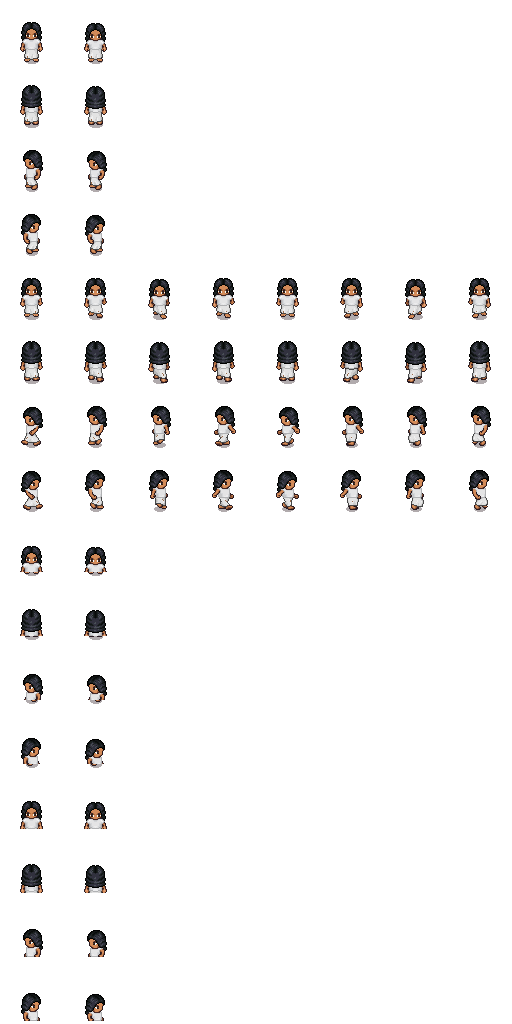
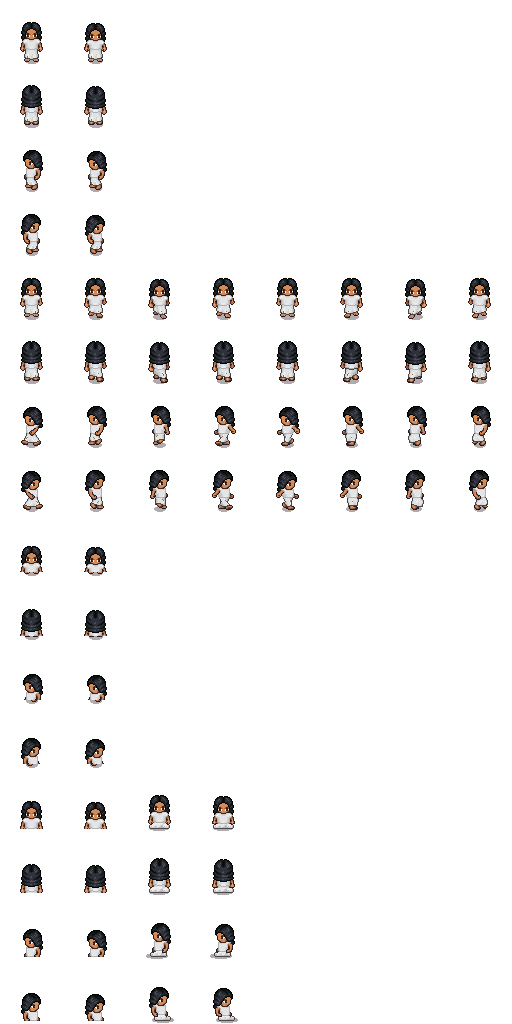
Drawings and credits up to date (20 Nov 2026): Zechariah, the remade Plagues, the copies made for the store apps (The Stars, The Blessings), the falling acacias, Tubal-cain's new arm and the hearth flames
Claude-Session: https://claude.ai/code/session_01NYaiWjz2SkyvwvdseRpBQS

diff --git a/credits/the-plagues.md b/credits/the-plagues.md
@@ -15,10 +15,10 @@ reuse them under the same terms.
 
 | Our file | Made from | Modified by us |
 |---|---|---|
-| `urgiile_sol_sala.png`, `urgiile_sol_caramidaria.png`, `urgiile_sol_rau.png`, `urgiile_sol_gosen.png`, `urgiile_sol_case.png` (the ground of the five maps) | [LPC] Terrains (`terrain-v7.png`): the sand, the trodden earth, the roads, the grass, the dry grass, the water, the stone, the ploughed field; the tufts, the flowers and the pebbles from `graphics/teren.png` (see `credits/shared.md`); the face of the walls from [LPC] Adobe Town Set | Yes: composed by us into a single image, laid out by corners; the flagstones and the carpet of Pharaoh's hall, its painted wall, the stone steps, the stubble field, the ploughed field, the straw in the stable, the unfired bricks drawn by us |
-| `urgiile_usa_piatra.png`, `urgiile_toiag.png`, `urgiile_balaur.png`, `urgiile_balaur_mic.png`, `urgiile_ud_*.png`, `urgiile_uscat_*.png`, `urgiile_bulgare_*.png`, `urgiile_pat.png`, `urgiile_covata*.png`, `urgiile_cuptor_mare.png`, `urgiile_broasca.png`, `urgiile_iesle.png`, `urgiile_gard_*.png`, `urgiile_trestie.png`, `urgiile_brat_trestie.png`, `urgiile_gramada_trestie.png`, `urgiile_masa*.png`, `urgiile_paine.png`, `urgiile_lapte.png`, `urgiile_miere.png`, `urgiile_smochine.png`, `urgiile_peste.png`, `urgiile_panza.png`, `urgiile_capac.png`, `urgiile_rogojina.png`, `urgiile_strachina.png`, `urgiile_frunza.png`, `urgiile_raft*.png`, `urgiile_lacusta.png`, `urgiile_perdea*.png`, `urgiile_opait.png`, `urgiile_tablita.png`, `urgiile_mana.png`, `urgiile_grajd.png`, `urgiile_in*.png`, `urgiile_orz*.png`, `urgiile_grau.png`, `urgiile_vas_apa.png`, `urgiile_vas_rosu.png`, `urgiile_cana_argint.png`, `urgiile_vas_aur.png`, `urgiile_haina.png` | Nothing from the packs | Drawn by us (from code), in the LPC manner: dark outline, light from the top left |
+| `urgiile_sol_sala.png`, `urgiile_sol_caramidaria.png`, `urgiile_sol_mal.png`, `urgiile_sol_case.png` (the ground of the four maps; for the riverbank: below, the old ground of the river, above it the land of the Egyptians and Goshen, composed from pieces of the old grounds, `unelte/lpc/urgiile_sol_nou.py`) | [LPC] Terrains (`terrain-v7.png`): the sand, the trodden earth, the roads, the grass, the dry grass, the water, the stone, the ploughed field; the tufts, the flowers and the pebbles from `graphics/teren.png` (see `credits/shared.md`); the face of the walls from [LPC] Adobe Town Set | Yes: composed by us into a single image, laid out by corners; the flagstones and the carpet of Pharaoh's hall, its painted wall, the stone steps, the stubble field, the ploughed field, the straw in the stable, the unfired bricks drawn by us |
+| `urgiile_usa_piatra.png`, `urgiile_toiag.png`, `urgiile_ud_*.png`, `urgiile_bulgare_*.png`, `urgiile_pat.png`, `urgiile_covata*.png`, `urgiile_cuptor_mare.png`, `urgiile_broasca.png`, `urgiile_iesle.png`, `urgiile_gard_*.png`, `urgiile_gramada_trestie.png`, `urgiile_masa*.png`, `urgiile_paine.png`, `urgiile_smochine.png`, `urgiile_rogojina.png`, `urgiile_strachina.png`, `urgiile_raft.png`, `urgiile_lacusta.png`, `urgiile_perdea*.png`, `urgiile_opait.png`, `urgiile_mana.png`, `urgiile_grajd.png`, `urgiile_in*.png`, `urgiile_orz*.png`, `urgiile_grau.png`, `urgiile_vas_apa.png`, `urgiile_vas_rosu.png`, `urgiile_cana_argint.png`, `urgiile_vas_aur.png`, `urgiile_haina.png`; from the remake from scratch (15 Nov 2026): `urgiile_trestie_vant.png`, `urgiile_trestie_cade.png`, `urgiile_snop.png`, `urgiile_snop_brat.png` (the sickle, `unelte/lpc/urgiile_secera.gd`), `urgiile_paie_snop.png`, `urgiile_caramida.png`, `urgiile_cos.png`, `urgiile_legatura.png`, `urgiile_lavita.png` (`unelte/lpc/urgiile_noi.py`) | Nothing from the packs | Drawn by us (from code), in the LPC manner: dark outline, light from the top left |
 | `urgiile_usa_piatra_a.png`, `urgiile_usa_piatra_b.png`, `urgiile_usa_piatra_c.png` (the variants of the stone doors in Pharaoh's hall: sandstone with a cornice, dark granite, limestone with the winged sun disc) | Nothing from the packs | Drawn by us (from code, `unelte/lpc/palat_variante.gd`) on 6 Nov 2026, in the LPC manner: dark outline, light from the top left |
-| `urgiile_baiat.png`, `urgiile_tata.png`, `urgiile_mama.png`, `urgiile_vecina.png`, `urgiile_vecin.png`, `urgiile_lucrator_*.png`, `urgiile_batran.png`, `urgiile_vrajitor_*.png` | Universal LPC Spritesheet Character Generator: the layers in the table below (walking in four directions) | Yes: recoloured with the generator's palettes (skin, hair, clothes, the gold of the coin necklace), the white robe recoloured, the stone of the staff made into a wooden knot, the eyes made brown, the "breathing" frame, the shadow |
+| `urgiile_baiat.png`, `urgiile_tata.png`, `urgiile_mama.png`, `urgiile_vecina.png`, `urgiile_vecin.png`, `urgiile_lucrator_*.png`, `urgiile_batran.png` | Universal LPC Spritesheet Character Generator: the layers in the table below (walking in four directions) | Yes: recoloured with the generator's palettes (skin, hair, clothes, the gold of the coin necklace), the white robe recoloured, the eyes made brown, the "breathing" frame, the shadow; `urgiile_baiat_62.png` is the same boy, made smaller by us (`unelte/sprite_mic.py`) for the meal at Shiloh (Samuel) |
 
 ## The packs
 
@@ -41,9 +41,9 @@ from the generator's CREDITS.csv; the colour palettes are the generator's).
 |---|---|---|---|---|
 | `beards/beard/trimmed/walk.png` | tata | ElizaWy | OGA-BY 3.0 | https://github.com/ElizaWy/LPC/tree/main/Characters/Hair, https://opengameart.org/content/lpc-expanded-sit-run-jump-more |
 | `body/bodies/female/walk.png` | mama, vecina | Benjamin K. Smith (BenCreating), bluecarrot16, TheraHedwig, Evert, MuffinElZangano, Durrani, Pierre Vigier (pvigier), ElizaWy, Matthew Krohn (makrohn), Johannes Sjölund (wulax), Stephen Challener (Redshrike) | OGA-BY 3.0, CC-BY-SA 3.0, GPL 3.0 | https://opengameart.org/content/liberated-pixel-cup-lpc-base-assets-sprites-map-tiles, https://opengameart.org/content/lpc-medieval-fantasy-character-sprites, https://opengameart.org/content/lpc-ladies |
-| `body/bodies/male/walk.png` | batran, lucrator_1, lucrator_2, lucrator_3, tata, vecin, vrajitor_1, vrajitor_2 | bluecarrot16, JaidynReiman, Benjamin K. Smith (BenCreating), Evert, Eliza Wyatt (ElizaWy), TheraHedwig, MuffinElZangano, Durrani, Johannes Sjölund (wulax), Stephen Challener (Redshrike) | OGA-BY 3.0, CC-BY-SA 3.0, GPL 3.0 | https://opengameart.org/content/liberated-pixel-cup-lpc-base-assets-sprites-map-tiles, https://opengameart.org/content/lpc-medieval-fantasy-character-sprites, https://opengameart.org/content/lpc-male-jumping-animation-by-durrani |
+| `body/bodies/male/walk.png` | batran, lucrator_1, lucrator_2, lucrator_3, tata, vecin | bluecarrot16, JaidynReiman, Benjamin K. Smith (BenCreating), Evert, Eliza Wyatt (ElizaWy), TheraHedwig, MuffinElZangano, Durrani, Johannes Sjölund (wulax), Stephen Challener (Redshrike) | OGA-BY 3.0, CC-BY-SA 3.0, GPL 3.0 | https://opengameart.org/content/liberated-pixel-cup-lpc-base-assets-sprites-map-tiles, https://opengameart.org/content/lpc-medieval-fantasy-character-sprites, https://opengameart.org/content/lpc-male-jumping-animation-by-durrani |
 | `body/bodies/teen/walk.png` | baiat | bluecarrot16, Evert, TheraHedwig, Benjamin K. Smith (BenCreating), MuffinElZangano, Durrani, Pierre Vigier (pvigier), Eliza Wyatt (ElizaWy), Matthew Krohn (makrohn), Johannes Sjölund (wulax), Stephen Challener (Redshrike) | OGA-BY 3.0, CC-BY-SA 3.0, GPL 3.0 | https://opengameart.org/content/liberated-pixel-cup-lpc-base-assets-sprites-map-tiles, https://opengameart.org/content/lpc-medieval-fantasy-character-sprites, https://opengameart.org/content/lpc-ladies |
-| `feet/sandals/male/walk.png` | batran, vecin, vrajitor_1, vrajitor_2 | Nila122, JaidynReiman, Matthew Krohn (makrohn), Johannes Sjölund (wulax) | OGA-BY 3.0, CC-BY-SA 3.0, GPL 2.0, GPL 3.0 | https://opengameart.org/content/lpc-roman-armor, http://opengameart.org/content/lpc-clothing-updates, https://opengameart.org/content/lpc-expanded-socks-shoes |
+| `feet/sandals/male/walk.png` | batran, vecin | Nila122, JaidynReiman, Matthew Krohn (makrohn), Johannes Sjölund (wulax) | OGA-BY 3.0, CC-BY-SA 3.0, GPL 2.0, GPL 3.0 | https://opengameart.org/content/lpc-roman-armor, http://opengameart.org/content/lpc-clothing-updates, https://opengameart.org/content/lpc-expanded-socks-shoes |
 | `feet/sandals/thin/walk.png` | mama, vecina | Nila122, JaidynReiman, Matthew Krohn (makrohn), Johannes Sjölund (wulax) | OGA-BY 3.0, CC-BY-SA 3.0, GPL 2.0, GPL 3.0 | https://opengameart.org/content/lpc-roman-armor, http://opengameart.org/content/lpc-clothing-updates, https://opengameart.org/content/lpc-expanded-socks-shoes |
 | `hair/balding/adult/walk.png` | batran | ElizaWy | OGA-BY 3.0 | https://opengameart.org/content/lpc-hair |
 | `hair/bedhead/adult/walk.png` | baiat | JaidynReiman, Manuel Riecke (MrBeast) | CC-BY-SA 3.0, GPL 3.0 | https://opengameart.org/content/liberated-pixel-cup-lpc-base-assets-sprites-map-tiles, https://opengameart.org/content/lpc-expanded-hair |
@@ -56,17 +56,15 @@ from the generator's CREDITS.csv; the colour palettes are the generator's).
 | `hat/headband/tied/adult/walk.png` | baiat, lucrator_1 | Nila122 | OGA-BY 3.0, CC-BY-SA 3.0, GPL 3.0 | https://opengameart.org/content/lpc-lizard-headgear, https://opengameart.org/content/lpc-expanded-hats-facial-helmets |
 | `head/heads/human/female/walk.png` | mama, vecina | bluecarrot16, Benjamin K. Smith (BenCreating), Stephen Challener (Redshrike) | OGA-BY 3.0, CC-BY-SA 3.0, GPL 3.0 | https://opengameart.org/content/, https://opengameart.org/content/lpc-character-bases |
 | `head/heads/human/female_small/walk.png` | baiat | ElizaWy, Stephen Challener (Redshrike) | OGA-BY 3.0, CC-BY |  |
-| `head/heads/human/male/walk.png` | lucrator_1, lucrator_2, lucrator_3, tata, vecin, vrajitor_1 | bluecarrot16, Benjamin K. Smith (BenCreating), Stephen Challener (Redshrike) | OGA-BY 3.0, CC-BY-SA 3.0, GPL 3.0 | https://opengameart.org/content/liberated-pixel-cup-lpc-base-assets-sprites-map-tiles, https://opengameart.org/content/lpc-character-bases |
-| `head/heads/human/male_elderly/walk.png` | batran, vrajitor_2 | Benjamin K. Smith (BenCreating), Eliza Wyatt (ElizaWy), Stephen Challener (Redshrike) | OGA-BY 3.0, CC-BY 3.0 | https://opengameart.org/content/liberated-pixel-cup-lpc-base-assets-sprites-map-tiles, https://opengameart.org/content/lpc-revised-elders, https://opengameart.org/content/lpc-character-bases |
-| `legs/skirts/plain/male/walk.png` | batran, lucrator_1, lucrator_2, lucrator_3, tata, vecin, vrajitor_1, vrajitor_2 | bluecarrot16, Pierre Vigier (pvigier), Johannes Sjölund (wulax), Ahmad3366, JaidynReiman | OGA-BY 3.0, CC-BY-SA 3.0, GPL 3.0 | https://opengameart.org/content/lpc-medieval-fantasy-character-sprites |
+| `head/heads/human/male/walk.png` | lucrator_1, lucrator_2, lucrator_3, tata, vecin | bluecarrot16, Benjamin K. Smith (BenCreating), Stephen Challener (Redshrike) | OGA-BY 3.0, CC-BY-SA 3.0, GPL 3.0 | https://opengameart.org/content/liberated-pixel-cup-lpc-base-assets-sprites-map-tiles, https://opengameart.org/content/lpc-character-bases |
+| `head/heads/human/male_elderly/walk.png` | batran | Benjamin K. Smith (BenCreating), Eliza Wyatt (ElizaWy), Stephen Challener (Redshrike) | OGA-BY 3.0, CC-BY 3.0 | https://opengameart.org/content/liberated-pixel-cup-lpc-base-assets-sprites-map-tiles, https://opengameart.org/content/lpc-revised-elders, https://opengameart.org/content/lpc-character-bases |
+| `legs/skirts/plain/male/walk.png` | batran, lucrator_1, lucrator_2, lucrator_3, tata, vecin | bluecarrot16, Pierre Vigier (pvigier), Johannes Sjölund (wulax), Ahmad3366, JaidynReiman | OGA-BY 3.0, CC-BY-SA 3.0, GPL 3.0 | https://opengameart.org/content/lpc-medieval-fantasy-character-sprites |
 | `legs/skirts/plain/thin/walk.png` | baiat | bluecarrot16, Pierre Vigier (pvigier), Johannes Sjölund (wulax), Ahmad3366, JaidynReiman | OGA-BY 3.0, CC-BY-SA 3.0, GPL 3.0 | https://opengameart.org/content/lpc-medieval-fantasy-character-sprites |
 | `neck/necklace/beaded_large/female/walk.png` | vecina | bluecarrot16 | CC0 | https://opengameart.org/content/lpc-jewelry |
 | `neck/necklace/beaded_large/male/walk.png` | vecin | bluecarrot16 | CC0 | https://opengameart.org/content/lpc-jewelry |
-| `torso/clothes/longsleeve/longsleeve/male/walk.png` | batran, vrajitor_1, vrajitor_2 | JaidynReiman, Johannes Sjölund (wulax) | OGA-BY 3.0, CC-BY-SA 3.0, GPL 3.0 | https://opengameart.org/content/lpc-medieval-fantasy-character-sprites, http://opengameart.org/content/lpc-clothing-updates, https://opengameart.org/content/lpc-revised-character-basics |
+| `torso/clothes/longsleeve/longsleeve/male/walk.png` | batran | JaidynReiman, Johannes Sjölund (wulax) | OGA-BY 3.0, CC-BY-SA 3.0, GPL 3.0 | https://opengameart.org/content/lpc-medieval-fantasy-character-sprites, http://opengameart.org/content/lpc-clothing-updates, https://opengameart.org/content/lpc-revised-character-basics |
 | `torso/clothes/robe/female/walk/white.png` | mama, vecina | Luke Mehl | CC-BY-SA 3.0, GPL 3.0 | https://opengameart.org/content/female-mage-clothing-set |
 | `torso/clothes/shortsleeve/shortsleeve/male/walk.png` | vecin | bluecarrot16, ElizaWy, JaidynReiman, Stephen Challener (Redshrike) | OGA-BY 3.0, CC-BY-SA 3.0, GPL 3.0 | https://opengameart.org/content/liberated-pixel-cup-lpc-base-assets-sprites-map-tiles, http://opengameart.org/content/lpc-revised-character-basics, http://opengameart.org/content/lpc-clothing-updates |
 | `torso/clothes/shortsleeve/shortsleeve/teen/walk.png` | baiat | Nyom, bluecarrot16, ElizaWy, JaidynReiman, Stephen Challener (Redshrike) | OGA-BY 3.0, CC-BY-SA 3.0, GPL 3.0 | https://opengameart.org/content/liberated-pixel-cup-lpc-base-assets-sprites-map-tiles, https://opengameart.org/content/lpc-7-womens-shirts, http://opengameart.org/content/lpc-revised-character-basics |
 | `torso/clothes/sleeveless/sleeveless/male/walk/white.png` | lucrator_3, tata | bluecarrot16, Matthew Krohn (makrohn), JaidynReiman, Marcel van de Steeg (MadMarcel), Nila122, Johannes Sjölund (wulax), Stephen Challener (Redshrike) | OGA-BY 3.0, CC-BY-SA 3.0, GPL 3.0 | https://opengameart.org/content/lpc-female-orcogregoblintroll-base-walkcycle, https://opengameart.org/content/lpc-curly-hair-elven-ears-white-cape-with-blue-trim-and-more, https://opengameart.org/content/more-lpc-clothes-and-hair |
-| `torso/waist/sash/male/walk/tan.png` | batran, lucrator_2, tata, vecin, vrajitor_1, vrajitor_2 | bluecarrot16, Nila122 | OGA-BY 3.0, GPL 2.0, GPL 3.0, CC-BY-SA 3.0 | https://opengameart.org/content/more-lpc-clothes-and-hair, https://opengameart.org/content/lpc-pirates |
-| `weapon/magic/simple/background/walk/simple.png` | vrajitor_1, vrajitor_2 | bluecarrot16, Dr. Jamgo | CC0 | https://opengameart.org/content/lpc-simple-staff |
-| `weapon/magic/simple/foreground/walk/simple.png` | vrajitor_1, vrajitor_2 | bluecarrot16, Dr. Jamgo | CC0 | https://opengameart.org/content/lpc-simple-staff |
+| `torso/waist/sash/male/walk/tan.png` | batran, lucrator_2, tata, vecin | bluecarrot16, Nila122 | OGA-BY 3.0, GPL 2.0, GPL 3.0, CC-BY-SA 3.0 | https://opengameart.org/content/more-lpc-clothes-and-hair, https://opengameart.org/content/lpc-pirates |

diff --git a/credits/the-generations.md b/credits/the-generations.md
@@ -17,17 +17,17 @@ of the people's layers) remain CC-BY-SA as well: anyone may reuse them under the
 | `neamuri_matusalem.png` (young Methuselah, 13 Nov 2026) | `matusalem.png` above | Yes: the hair and beard recoloured dark chestnut (a recolouring done once, in Godot) |
 | `neamuri_bou.png` (the ox at the plough, 13 Nov 2026) | the copy of `granarele_bou.png` from the chapter The Storehouses: LPC bull (`bull_1.png`), the authors and the licence in The Storehouses (`credits/the-storehouses.md`) | Yes: recoloured reddish-brown (in The Storehouses) |
 | `neamuri_copil.png`, `neamuri_copil_2.png` and their sheets at 62% (the children of Seth's household, 13 Nov 2026) | the copies of `peniel_copil_1.png`, `peniel_copil_2.png` (and `_62`) from the chapter Peniel: the LPC generator; the authors of the layers in Peniel (`credits/peniel.md`) | Yes: in Peniel (recoloured, scaled down with `unelte/sprite_mic.py`) |
-| `iabal.png`, `iubal.png`, `tubalcain.png`, `lameh_cain.png` | The LPC generator; Jabal with a hood and a staff, Jubal with a headband, Tubal-cain with a leather apron | Yes: as above; the lyre in Jubal's hands (the "plays" animation) is drawn by us |
+| `iabal.png`, `iubal.png`, `tubalcain.png`, `lameh_cain.png` | The LPC generator; Jabal with a hood and a staff, Jubal with a headband, Tubal-cain with a leather apron | Yes: as above; the lyre in Jubal's hands (the "plays" animation) is drawn by us; for Tubal-cain, two extra frames (row 9, the "strikes" animation: the arm raised, with the fist by the ear, and the arm stretched towards the anvil), with the old arm removed and a new one drawn by us from his shoulder, in the colours of his sleeve and hand (`unelte/lpc/neamuri_tubalcain_bate.py`) |
 | `ada.png`, `sela.png`, `noema.png`, `neamuri_fiica.png`, `neamuri_fiica_2.png` | The LPC generator: female body, head, hair, the women's robe, sandals; one daughter has a headscarf | Yes: recoloured; the robe closed at the neck and lowered to almost the ankles (modest clothing) |
 | `neamuri_capra.png`, `neamuri_capra_neagra.png`, `neamuri_capra_cafenie.png` | [LPC] Goat (`goat.png`) | Yes: rearranged, the pack's shadow replaced with ours; recoloured black and brown |
 | `casa_chirpici_1.png`, `casa_chirpici_3.png` | [LPC] Adobe Building Set (`adobe6.png`): the house with the flat roof | Yes: cut out, green background removed, shadow; the second one is mirrored |
-| `nicovala.png`, `ciocan.png`, `lemne_stiva.png`, `lemne_brat.png` | [LPC] Farming tilesets (`farming_fishing.png`) | Only cut out (shadow added to the anvil and to the armful of wood) |
+| `nicovala.png`, `ciocan.png`, `ciocan_lovit.png`, `ciocan_bate.png`, `ciocan_ridicat.png`, `lemne_stiva.png`, `lemne_brat.png` | [LPC] Farming tilesets (`farming_fishing.png`) | Only cut out (shadow added to the anvil and to the armful of wood; on the hammer, the leftovers of the neighbouring drawing removed, and `ciocan_lovit.png` is the same hammer lying down, pixel for pixel; `ciocan_bate.png` is the hammer lying down with the handle 4 pixels longer and tilted by 15 degrees, RotSprite, with Tubal-cain's fist over the handle, and `ciocan_ridicat.png` is the hammer lying down, turned with its head towards the back and raised by 60 degrees, RotSprite, `unelte/lpc/neamuri_tubalcain_bate.py`) |
 | `gard_*.png` | [LPC] Farming tilesets (`fence.png`) | Yes: the pieces recomposed according to their neighbours (post, rails to the left, right, up, down) |
 | `brazda.png` | [LPC] Farming tilesets (`plowed_soil.png`) | No, only cut out |
 | `ogor_arat.png`, `ogor_arat_lipsa.png` (Lamech's ploughed field, whole and with one tile missing at a time) | [LPC] Farming tilesets (`plowed_soil.png`), the tile from `brazda.png` | Yes: the furrows laid side by side over the whole field, with broken ends, in a patch of earth drawn by us, with an irregular edge (`unelte/lpc/neamuri_ogor.py`, 28 Oct 2026) |
 | `pom_1.png`, `pom_2.png`, `pom_3.png` | [LPC] Trees (`trees-green.png`) | No, only cut out |
 | `pete.png` (the ground patches, the paths, the small bits) | [LPC] Terrains (`terrain-v7.png`): the dark grass, the fresh green grass, the sand, the gravel, the brown earth, on transparent, and two tiles with pebbles; [LPC] Flowers / Plants (`plants.png`): fallen leaves, blades of grass, tiny flowers, bulrushes | Yes: the tiles chosen by corners and rearranged in rows; the gravel redrawn by us on 28 Oct 2026, in the LPC style (`unelte/lpc/piatra_seaca.py`), in place of the one from the pack; the pebbles (row 5) redrawn by us on 28 Oct 2026, in the style of the walls in The Brothers (`unelte/lpc/pietre_rotunde.py`) |
-| `candela.png`, `flacara_1..3.png`, `coliba_1.png`, `coliba_2.png`, `zid_*.png`, `turn_*.png`, `temelie.png`, `caramizi.png`, `jertfelnic_enos.png`, `pom_0.png`, `cort_negru_1.png`, `cort_negru_2.png`, `cuptor.png`, `arama.png`, `instrumente.png`, `leagan_1..3.png`, `groapa_1..3.png`, `fantana.png`, `vatra.png`, `vatra_lemne.png`, `ulcior.png`, `plug.png`, `piatra_sezut.png`, `bolovan_1..3.png` | Nothing from the packs | Drawn by us, in the LPC style (dark outline, stepped shading, light from the top left); the walls have the adobe colours of [LPC] Adobe Building Set; the hearth, the well, Enosh's altar, the boulders and the sitting stone redrawn by us on 28 Oct 2026, in the style of the walls in The Brothers (`unelte/lpc/pietre_rotunde.py`) |
+| `candela.png`, `flacara_1..3.png`, `coliba_1.png`, `coliba_2.png`, `zid_*.png`, `turn_*.png`, `temelie.png`, `caramizi.png`, `jertfelnic_enos.png`, `pom_0.png`, `cort_negru_1.png`, `cort_negru_2.png`, `cuptor.png`, `arama.png`, `instrumente.png`, `leagan_1..3.png`, `groapa_1..3.png`, `fantana.png`, `vatra.png`, `vatra_lemne.png`, `vatra_flacara_1..3.png`, `vatra_flacara_mare_1..3.png`, `ulcior.png`, `plug.png`, `piatra_sezut.png`, `bolovan_1..3.png` | Nothing from the packs | Drawn by us, in the LPC style (dark outline, stepped shading, light from the top left); the walls have the adobe colours of [LPC] Adobe Building Set; the hearth, the well, Enosh's altar, the boulders and the sitting stone redrawn by us on 28 Oct 2026, in the style of the walls in The Brothers (`unelte/lpc/pietre_rotunde.py`); the flames of the hearth drawn at their own size on 18 Nov 2026 (`unelte/lpc/neamuri_foc_vatra.gd`), in the colours of the oil lamp's flame |
 
 ## The packs
 

diff --git a/credits/zechariah.md b/credits/zechariah.md
@@ -1,0 +1,43 @@
+# Credits — chapter 62, Zechariah (the "lpc" style)
+
+The images in `graphics/zechariah/` are made by the chapter's tool (`unelte/lpc/zaharia_desene.py`) from the drawings of
+other chapters, recoloured (the brighter colours of the New Testament trial: clean clothes, cream-gold stone, blue-violet
+shadows) and drawn further by us, in the LPC manner, and from drawings made by us. The drawings made from code by the
+chapter (`capitole/zaharia*.gd`: the smoke of the altar and of the incense, the haze in the holy room, the sunbeams with
+the specks of dust, the line of the coals, the arrows and the circles of the mini-games) are drawn by us, with nothing
+from the packs.
+
+From other chapters, taken by path (their authors are in their chapter's credits file, and the LPC packs the people are
+made from are listed there, layer by layer):
+
+| Our file | Made from | Modified by us |
+|---|---|---|
+| `zaharia_zaharia.png`, `zaharia_zaharia_casa.png` | Moses with raised arms from The Wilderness (`graphics/the-wilderness/`, `credits/the-wilderness.md`) and Eli from Samuel (`credits/samuel.md`) | Yes: the white priest's robe with a sash, then the robe for home, the white beard, the half-raised arms (the sign of the mute man), drawn by us |
+| `zaharia_elisabeta.png` | Naomi from Ruth (`credits/ruth.md`) | Yes: recoloured, the headscarf drawn by us |
+| `zaharia_maria.png` | Miriam from The Burning Bush (`credits/the-burning-bush.md`) | Yes: the blue robe and the maphorion, drawn by us |
+| `zaharia_preot_1..3.png`, `zaharia_iosif.png` | The elders from The Burning Bush and the young man from The Spies (`credits/the-burning-bush.md`, `credits/the-spies.md`) | Yes: the white linen robes of the priests and Joseph's work clothes, recoloured by us |
+| `zaharia_om_1..16.png` | The people, the girls and the elders from The Burning Bush, the man from Samuel and from The Spies, the kinsman from The Threshing Floor, Jonathan from Saul, the mother and Manoah from Samson (each with its credits file) | Yes: recoloured with the palettes of the LPC generator |
+| `zaharia_copil_1..2.png` | The child Samuel from Samuel (`credits/samuel.md`) | Yes: recoloured |
+| `zaharia_gavriil.png`, `zaharia_gavriil_lumina.png` | The angel and his light from Balaam and Nebo (`credits/balaam-and-nebo.md`) | Yes: a tall man full of light, without wings, the white robe with gold, drawn by us |
+| `zaharia_jertfelnic.png`, `zaharia_spalatoare.png`, `zaharia_masa_paini.png`, `zaharia_altar.png`, `zaharia_sfesnic.png`, `zaharia_stalpi_perdea.png`, `zaharia_rogojina.png` | The furnishings of the tabernacle from The Tabernacle (`credits/the-tabernacle.md`) | Yes: the altar in bronze, the colours brighter |
+| `zaharia_foc_1..3.png`, `zaharia_flacara_1..3.png`, `zaharia_candela.png`, `zaharia_zid_0..15.png`, `zaharia_cedru_0..15.png` | The hearth, the flames, the oil lamp and the walls from The Generations (`credits/the-generations.md`) | Yes: the walls recoloured twice (the cream-gold stone of the courts and the cedar walls with a gold band of the temple) |
+| `zaharia_zidt_*.png` | The dry-stone walls from The Brothers (`graphics/the-brothers/`, the authors in `credits/shared.md`) | Yes: brighter |
+| `zaharia_coloana.png`, `zaharia_casa_*.png` (one of five) | The column and the house from The Storehouses (`credits/the-storehouses.md`) | Yes: the cream-gold stone; the front of the temple, with the door, the porch and the cornice, put together by us from columns and walls |
+| `zaharia_casa_mare.png`, `zaharia_poarta.png`, `zaharia_casa_*.png` | The houses and the gate from Mamre (`credits/mamre.md`) | Yes: warm colours |
+| `zaharia_casa_mica.png`, `zaharia_ulcior.png` | The house and the jar from The Call (`credits/the-call.md`) | Yes: warm colours |
+| `zaharia_casa_joasa.png` | The house from Peniel (`credits/peniel.md`) | Yes: warm colours |
+| `zaharia_treapta.png`, `zaharia_casa_*.png` (one of five) | The step and the house from The Well (`credits/the-well.md`) | Yes: warm colours |
+| `zaharia_fantana.png` | The well from Jacob (`credits/jacob.md`) | Yes: brighter |
+| `zaharia_vie.png`, `zaharia_cos.png` | The vine and the basket of figs from Joseph (`credits/joseph.md`) | Yes: brighter |
+| `zaharia_maslin.png`, `zaharia_butuc.png`, `zaharia_asin.png` | The olive tree, the stump and the donkey with its pack saddle from Moriah (`credits/moriah.md`) | Yes: brighter |
+| `zaharia_maslin_mic.png` | The small olive tree from The Flood (`credits/the-flood.md`) | Yes: brighter |
+| `zaharia_smochin.png` | The shared fig tree (`credits/shared.md`) | Yes: brighter |
+| `zaharia_teren.png` (the ground: the flagstones, the street, the grass, the gravel) | The ground from Haran (`credits/haran.md`) | Yes: recoloured, the flagstones of the temple court and the stones of the street drawn by us |
+| `zaharia_fatada.png`, `zaharia_perdea.png`, `zaharia_catapeteasma.png`, `zaharia_cadelnita.png`, `zaharia_carbune.png`, `zaharia_tablita_mica.png`, `zaharia_prunc.png`, `zaharia_fum.png`, `zaharia_smochine_uscat.png`, `zaharia_scara.png`, `zaharia_rufe.png`, `zaharia_flori.png`, `zaharia_fluture.png`, `zaharia_randunica.png`, `zaharia_jug.png`, `zaharia_masa.png`, `zaharia_perete.png`, `zaharia_fereastra.png` | Nothing from the packs (the front from the columns and walls above; the stone table, the whitewashed walls and the window of Mary's room, from code) | Drawn by us, in the LPC manner: dark outline, 3–4 steps of colour, light from the top left |
+
+The doves on the walls are the ones from The Garden (`credits/the-garden.md`), and the hidden lamb is the shared sheep, as in
+the other chapters.
+
+**What the licences require:** the names of the authors in the credits file files above and the links to their pages
+appear on the Credits page. Images made from CC-BY-SA material (the people) remain CC-BY-SA 3.0: anyone may reuse them
+under the same conditions.

diff --git a/credits/joseph.md b/credits/joseph.md
@@ -5,7 +5,7 @@ on OpenGameArt.org, from the layers of the LPC character generator and from draw
 (dark outline, stepped shading, light from the top left).
 
 **What the licences require:** the names of the authors below and the links to their pages must appear on the
-Credits page. Images made from CC-BY-SA material (the ground, the people, the camel, the cows, the bird, the horse) remain CC-BY-SA 3.0:
+Credits page. Images made from CC-BY-SA material (the ground, the people, the cows, the bird, the horse) remain CC-BY-SA 3.0:
 anyone may reuse them under the same conditions.
 
 ## Our files and their sources
@@ -16,7 +16,7 @@ anyone may reuse them under the same conditions.
 | `iosif_ziduri.png` (the adobe walls, their shadow, Pharaoh's red carpet) | Nothing from the packs | Drawn by us (in code) |
 | `iosif_pardoseala_a.png`, `iosif_pardoseala_b.png`, `iosif_pardoseala_c.png` (the variants of the floor in Pharaoh's hall: polished limestone flagstones, a chessboard of limestone and sandstone, alabaster) | Nothing from the packs | Drawn by us (in code, `unelte/lpc/palat_variante.gd`) on 6 Nov 2026, in the LPC style |
 | `iosif_haina.png`, `iosif_rob.png`, `iosif_tuns.png`, `iosif_egipt.png`, `iosif_iacov.png`, the ten brothers, `iosif_omul.png`, the people of Shechem, the Ishmaelite merchants, `iosif_putifar.png`, the servants, the jailer, the guard, the cupbearer, the baker, the prisoners, `iosif_faraon.png`, the magician, the official, the Egyptians on the road | Universal LPC Spritesheet Character Generator: the layers in the table below (walking in four directions) | Yes: recoloured (skin, hair, clothes; Joseph's robe in red, yellow, blue and green stripes; Pharaoh's headcloth in gold and blue stripes), the gold necklace drawn by us, the eyes made brown, the "breathing" frame, the kneeling man, the shadow |
-| `iosif_camila.png` | LPC style farm animals (`llama_walk_0.png`) | Yes: recoloured in the colour of a camel, the hump and the saddlebags with goods drawn by us, shadow |
+| `iosif_camila.png` (the camels of the Ishmaelites, since 16 Nov 2026) | Nothing from the packs: the camel from The Well (`fantana_camila_1.png`), copied | Drawn by us (`unelte/lpc/fantana_camila.py`); here only the rows with standing and walking. Until 16 Nov 2026 it was the llama from LPC style farm animals, with the hump and the saddlebags drawn by us |
 | `iosif_vis_vaca_grasa.png`, `iosif_vis_vaca_slaba.png` | LPC style farm animals (`cow_walk.png`) | Yes: recoloured (red with white; grey); the thin one with a tucked-in belly and the ribs showing |
 | `iosif_vis_pasare.png` | [LPC] Birds (`bird_3_sparrow.png`) | No, only rearranged |
 | `iosif_cal.png` | [LPC] Horses (`horse-white_0.png`) | Yes: the walk to the right, cut out, shadow |
@@ -43,7 +43,7 @@ The sounds (`sunete/iosif/`) are synthesised by us (`unelte/sunete_iosif.py`), w
 - `mountains.png`: Lanea Zimmerman (Sharm). Licence: CC-BY-SA 3.0 / GPL 3.0 (Sharm's works are also OGA-BY 3.0).
 - https://opengameart.org/content/liberated-pixel-cup-lpc-base-assets-sprites-map-tiles
 
-### LPC style farm animals (the camel, from the llama; the cows of the dream)
+### LPC style farm animals (the cows of the dream)
 - Author: Daniel Eddeland (daneeklu), commissioned by tebruno99. Licence: CC-BY 3.0 / GPL 2.0.
 - https://opengameart.org/content/lpc-style-farm-animals
 

diff --git a/credits/the-blessings.md b/credits/the-blessings.md
@@ -9,7 +9,9 @@ The inside of Israel's tent, from the scene through Joseph's eyes, Israel's hand
 in code, also by us (`capitole/binecuvantarile_patul.gd`); the sons seen from behind and Israel sitting are made in the game
 from their sheets, which belong to the chapters Joseph and The Storehouses.
 
-The rest of the drawings belong to other chapters, used as they are; their authors are listed in the credits of those chapters:
+The rest of the drawings belong to other chapters, used as they are; their authors are listed in the credits of those chapters. The
+ones taken from chapters that are not yet in the store apps (the fire, the smoke, the reed mat) are copied unchanged into
+`graphics/the-blessings/` (18 Nov 2026), so that the app does not have to carry the whole packs of those chapters for them:
 
 | What is seen in the chapter | Whose drawing it is | The credits |
 |---|---|---|
@@ -17,9 +19,9 @@ The rest of the drawings belong to other chapters, used as they are; their autho
 | The palm trees, the bushes, the great tent | the prologue, Haran (`graphics/haran/`) | `credits/haran.md` |
 | The rocks and the boulders on the road to Mamre | Moriah (`graphics/moriah/`) | `credits/moriah.md` |
 | The altar that grows, the oak at Mamre, the folded tent | The Call (`graphics/the-call/`) | `credits/the-call.md` |
-| The fire of the sacrifice | Balaam and Nebo (`graphics/balaam-and-nebo/`) | `credits/balaam-and-nebo.md` |
-| The smoke of the sacrifice | The Tabernacle (`graphics/the-tabernacle/`) | `credits/the-tabernacle.md` |
-| The reed mat by the tent | The Plagues (`graphics/the-plagues/`) | `credits/the-plagues.md` |
+| The fire of the sacrifice (`graphics/the-blessings/binecuvantarile_foc_0.png`, `_foc_1.png`): the unchanged copies of `valaam_foc_0.png`, `valaam_foc_1.png` | Balaam and Nebo (`graphics/balaam-and-nebo/`) | `credits/balaam-and-nebo.md` |
+| The smoke of the sacrifice (`graphics/the-blessings/binecuvantarile_fum_1.png` … `_fum_3.png`): the unchanged copies of `cortul_fum_1.png` … `cortul_fum_3.png` | The Tabernacle (`graphics/the-tabernacle/`) | `credits/the-tabernacle.md` |
+| The reed mat by the tent (`graphics/the-blessings/binecuvantarile_rogojina.png`): the unchanged copy of `urgiile_rogojina.png` | The Plagues (`graphics/the-plagues/`) | `credits/the-plagues.md` |
 | Goshen, the sacks of grain, the ox carts, Israel, Joseph, the brothers, the servants and Pharaoh's elders | The Storehouses (`graphics/the-storehouses/`) | `credits/the-storehouses.md` |
 | The ground of Goshen in the hard years (`graphics/the-blessings/binecuvantarile_sol_gosen.png`): the copy of `granarele_sol_gosen.png`, with a tuft of grass moved higher up, from under the road (`unelte/lpc/binecuvantarile_sol_gosen.py`) | The Storehouses: [LPC] Terrains (`terrain-v7.png`), the tufts and flowers from `graphics/teren.png`, the face of the walls from [LPC] Adobe Building Set | `credits/the-storehouses.md` (the same licences; changed by us) |
 | Pharaoh's hall, Pharaoh, Joseph's chariot with the white horse, Ephraim and Manasseh | Joseph (`graphics/joseph/`) | `credits/joseph.md` |

diff --git a/credits/the-basket.md b/credits/the-basket.md
@@ -20,7 +20,7 @@ reuse them under the same conditions.
 | `cosuletul_gaina.png` | LPC style farm animals (`chicken_walk.png`, `chicken_eat.png`) | Yes: scaled down to three quarters, rearranged, shadow |
 | `cosuletul_pasare.png` | [LPC] Birds (`bird_1_white.png`): the white dove | Yes: rearranged (on the ground and in flight), shadow |
 | `cosuletul_asin.png` | [LPC] Horses (`horse-gray_0.png`) | Yes: scaled down to three quarters, recoloured as a donkey, the ears lengthened, in profile |
-| `cosuletul_mariam.png`, `cosuletul_mama.png`, `cosuletul_tata.png`, `cosuletul_evreu_*.png`, `cosuletul_supraveghetor_*.png`, `cosuletul_fata_faraon.png`, `cosuletul_roaba_*.png`, `cosuletul_spalatoreasa.png`, `cosuletul_vecina.png`, `cosuletul_vecin.png`, `cosuletul_batran.png`, `cosuletul_pescar_*.png`, `cosuletul_copil_*.png`, `cosuletul_prunc_mare.png`, `cosuletul_moise.png` | Universal LPC Spritesheet Character Generator: the layers in the table below (walking in four directions; for Miriam also crouching and sitting) | Yes: recoloured with the generator's palettes (skin, hair, clothes, the gold of the coin necklace), the white robe recoloured, the stone of the staff turned into a wooden knob, the eyes made brown, the "breathing" frame, the shadow |
+| `cosuletul_mariam.png`, `cosuletul_mama.png`, `cosuletul_tata.png`, `cosuletul_evreu_*.png`, `cosuletul_supraveghetor_*.png`, `cosuletul_fata_faraon.png`, `cosuletul_roaba_*.png`, `cosuletul_spalatoreasa.png`, `cosuletul_vecina.png`, `cosuletul_vecin.png`, `cosuletul_batran.png`, `cosuletul_pescar_*.png`, `cosuletul_copil_*.png`, `cosuletul_prunc_mare.png`, `cosuletul_moise.png` | Universal LPC Spritesheet Character Generator: the layers in the table below (walking in four directions; for Miriam also crouching and sitting) | Yes: recoloured with the generator's palettes (skin, hair, clothes, the gold of the coin necklace), the white robe recoloured, the stone of the staff turned into a wooden knob, the eyes made brown, the "breathing" frame, the shadow; `cosuletul_copil_1_62.png` and `cosuletul_copil_2_50.png` are the same children, made smaller by us (`unelte/sprite_mic.py`) for the meal at Shiloh (Samuel) |
 
 ## The packs
 

diff --git a/credits/the-stars.md b/credits/the-stars.md
@@ -1,7 +1,10 @@
 # Credits — chapter 8 (The Stars)
 
 The drawings in `graphics/the-stars/`. The rest of the chapter's drawings belong to other chapters (the prologue, The Call, The Tower,
-The Generations, Mamre, Joseph), with their authors in the credit files of those chapters.
+The Generations, Mamre, Joseph), with their authors in the credit files of those chapters. The ones taken from chapters that
+are not yet in the store apps (The Burning Bush, The Wilderness, Balaam and Nebo, Samuel) are copied here unchanged (18 Nov 2026),
+under another name, so that the app does not have to carry the whole packs of those chapters for them; their authors remain the
+ones in the credits of the chapter they come from.
 
 ## The files and their sources
 
@@ -9,3 +12,8 @@ The Generations, Mamre, Joseph), with their authors in the credit files of those
 |---|---|---|
 | `stelele_camila.png` (the camel given by Pharaoh, 12:16) | Nothing from the packs: the camel from The Well (`fantana_camila_1.png`), copied | Drawn by us (`unelte/lpc/fantana_camila.py`); here only the rows with standing and walking |
 | `stelele_stalp_fum.png` (the pillar of smoke with fire at the covenant, 15:17; 12 frames) | Nothing from the packs | Drawn by us, from code (`unelte/lpc/stelele_stalp_fum.gd`), after variant C chosen by Alex on 14 Nov 2026 |
+| `stelele_foc_0.png`, `stelele_foc_1.png` (the campfire) | The unchanged copies of `valaam_foc_0.png`, `valaam_foc_1.png` (Balaam and Nebo) | As in `credits/balaam-and-nebo.md` |
+| `stelele_pastor_1.png`, `stelele_pastor_2.png` (Lot's herdsmen) | The unchanged copies of `rugul_pastor_1.png`, `rugul_pastor_2.png` (The Burning Bush) | As in `credits/the-burning-bush.md` |
+| `stelele_imparat.png` (the king) | The unchanged copy of `valaam_boier_1.png` (Balaam and Nebo) | As in `credits/balaam-and-nebo.md` |
+| `stelele_paznic_1.png` … `stelele_paznic_3.png` (the soldiers) | The unchanged copies of `pustia_amalec_1.png` … `pustia_amalec_3.png` (The Wilderness) | As in `credits/the-wilderness.md` |
+| `stelele_scapat.png` (the one who escaped, 14:13) | The unchanged copy of `samuel_alergator.png` (Samuel) | As in `credits/samuel.md` |

diff --git a/credits/balaam-and-nebo.md b/credits/balaam-and-nebo.md
@@ -31,7 +31,7 @@ CC-BY-SA 3.0: anyone may reuse them under the same conditions.
 | `valaam_inger.png` (the angel of the LORD), `valaam_inger_lumina.png` | `iacov_inger_1.png` from Jacob (Universal LPC Spritesheet Character Generator, see `credits/jacob.md`) | Yes: recoloured all white, 6 pixels taller (rows of the robe repeated), lit up, with an outline of light; the sword held flat, the hands, the gleam and the white light beneath him drawn by us |
 | `valaam_valac.png`, `valaam_boier_1..3.png`, `valaam_batran_1..2.png`, `valaam_sluga_1..2.png`, `valaam_om_1..3.png` | `granarele_negustor.png`, `granarele_strain_1.png` (The Storehouses), `iosif_ismaelit_1.png`, `iosif_batran_sihem.png` (Joseph), `chemarea_negustor.png` (The Call), `peniel_laban.png` (Peniel), `moria_sluga_1..2.png` (Moriah), `cosuletul_tata.png` (The Basket), `pustia_israel_1..2.png` (The Wilderness): all from the Universal LPC Spritesheet Character Generator, see the credits files of their chapters | Yes: the clothes recoloured in the colours of Moab and Midian (dark red and gold for Balak, brown, ochre, muted red, olive); Balak's gold headband drawn by us |
 | `valaam_jertfelnic_lemne.png` | `chemarea_jertfelnic_8.png` (The Call) and `moria_lemne_altar.png` (Moriah) | Yes: the firewood laid on the altar |
-| `valaam_foc_0..1.png` | `sinai_foc_0..1.png` (Sinai) | Yes: only the flames, without the ring of stones |
+| `valaam_foc_0..1.png` | `sinai_foc_0..1.png` (Sinai) | Yes: only the flames, without the ring of stones; since 19 Nov 2026 both brought to 21×25 with empty pixels, so that the fire does not jump |
 | `valaam_salcie.png` | `chemarea_copac_3.png` (The Call) | Yes: the foliage recoloured silvery green, like a willow's |
 | `valaam_sicriu.png` | Drawn from code by `capitole/marea_desene.gd` (The Sea) | No: the same coffin on a bier |
 | `valaam_stalp_vaal.png`, `valaam_piatra_1..3.png`, `valaam_praf_0..2.png`, `valaam_pietre_risipite.png`, `valaam_blid.png`, `valaam_ceata.png` | Nothing from the packs | Drawn by us (from code), in the LPC manner: dark outline, light from the top left, the transitions through alternating pixels |

diff --git a/credits/chapters-map.md b/credits/chapters-map.md
@@ -50,3 +50,4 @@ colours, close to the game's tones), only a part of each. The public domain also
 | `graphics/chapters-map/samuel.png` (chapter 37, Samuel) | Samuel Tells Eli God's Judgement on His House (Samuel Relating to Eli the Judgements of God upon Eli's House), Wadsworth Atheneum, Hartford | John Singleton Copley (1738–1815) | 1780 | https://commons.wikimedia.org/wiki/File:Eli_and_Samuel.jpg | Public domain (PD-old-100) |
 | `graphics/chapters-map/saul.png` (chapter 38, Saul) | Jonathan and His Armour-Bearer Climb the Rock (Maciejowski Bible, Morgan MS M.638, fol. 24r), Morgan Library & Museum, New York | Anonymous Parisian illuminators (Maciejowski Bible) (c. 1244–1254) | c. 1244–1254 | https://commons.wikimedia.org/wiki/File:Maciejowski_Bible_-_Morgan_Library_%26_Museum_MS_M.638,_fol._24r.jpg | Public domain (CC-PD-Mark, PD-old-100-expired) |
 | `graphics/chapters-map/david.png` (chapter 39, David and Goliath) | The Anointing of David (The Anointment of David / Salbung Davids), Kunsthistorisches Museum, Vienna (GG 40) | Paolo Veronese (Paolo Caliari) (1528–1588) | c. 1555 | https://commons.wikimedia.org/wiki/File:Paolo_Caliari,_called_Veronese_-_The_Anointment_of_David_-_Google_Art_Project.jpg | Public domain (CC-PD-Mark, PD-Art, PD-old-100-expired) |
+| `graphics/chapters-map/zaharia.png` (chapter 62, Zechariah) | The Angel Appears to Zechariah (Annuncio dell'angelo a Zaccaria), Tornabuoni Chapel, Santa Maria Novella, Florence | Domenico Ghirlandaio (1448–1494) | 1486–1490 | https://commons.wikimedia.org/wiki/File:Cappella_tornabuoni,_10,_annuncio_dell%27angelo_a_zaccaria.jpg | Public domain (Public domain) |

diff --git a/credits/the-flood.md b/credits/the-flood.md
@@ -24,6 +24,7 @@ CC-BY-SA material also remain CC-BY-SA, free for anyone, under the same terms.
 | `potop_caine.png` (the decks) | [LPC] bears, deer, lions and more (`dog, shiba (Sevarihk).png`), via the dog of chapter 13 | Yes (in chapter 13): recoloured like a sheepdog, rearranged, the shadow; copied here unchanged |
 | `sac.png`, `fan_gramada.png`, `merinde.png` (the food on the decks) | Nothing from the packs | Drawn by us (`unelte/lpc/potop_hrana.py`, variant B) |
 | `salcam_1.png`, `salcam_2.png` | [LPC] Trees (`trees-green.png`) | Yes: cut out; the second one turned around, with slightly more yellowish foliage |
+| `salcam_1_cade_*.png`, `salcam_2_cade_*.png` | [LPC] Trees (`trees-green.png`), through the acacias above | Yes: rotated in four steps of falling (RotSprite, `unelte/lpc/potop_salcam_cade.py`), the shadow left in place and faded out step by step |
 | `buturuga.png`, `trunchi.png` | [LPC] Flowers / Plants / Fungi / Wood (`plants.png`) | No, only cut out |
 | `butoi.png`, `galeata.png`, `galeata_apa.png` | LPC Base Assets (`barrel.png`, `buckets.png`) | No, only cut out |
 | `arca_0.png` … `arca_4.png`, `arca_smoala.png`, `arca_usa.png`, `arca_rampa.png`, `arca_fereastra.png`, `arca_gol_usa.png`, `arca_gaura.png` | Nothing from the packs | Drawn by us: the ark in five stages of work, the pitch, the door and the gangway |

diff --git a/README.md b/README.md
@@ -65,6 +65,7 @@ Romanian (`copac_1.png` is "tree 1"); the credits list every file under that nam
 | Samuel | [graphics/samuel/](graphics/samuel/) | [credits/samuel.md](credits/samuel.md) |
 | Saul | [graphics/saul/](graphics/saul/) | [credits/saul.md](credits/saul.md) |
 | David and Goliath | [graphics/david-and-goliath/](graphics/david-and-goliath/) | [credits/david-and-goliath.md](credits/david-and-goliath.md) |
+| Zechariah | [graphics/zechariah/](graphics/zechariah/) | [credits/zechariah.md](credits/zechariah.md) |
 | Wild animals (shared by several chapters) | [graphics/wild-animals/](graphics/wild-animals/) | [credits/wild-animals.md](credits/wild-animals.md) |
 | The Chapters screen: the map | [graphics/chapters-map/](graphics/chapters-map/) | [credits/chapters-map.md](credits/chapters-map.md) |
 | The Chapters screen: the regions of the map | [graphics/map-regions/](graphics/map-regions/) | in [credits/shared.md](credits/shared.md) |
@@ -74,4 +75,4 @@ Romanian (`copac_1.png` is "tree 1"); the credits list every file under that nam
 A missing or wrong credit, or a question about the drawings: support@swiftcaresystems.com
 (SWIFT CARE SYSTEMS S.R.L., the company that makes the game).
 
-Last updated: 15 Nov 2026.
+Last updated: 20 Nov 2026.
